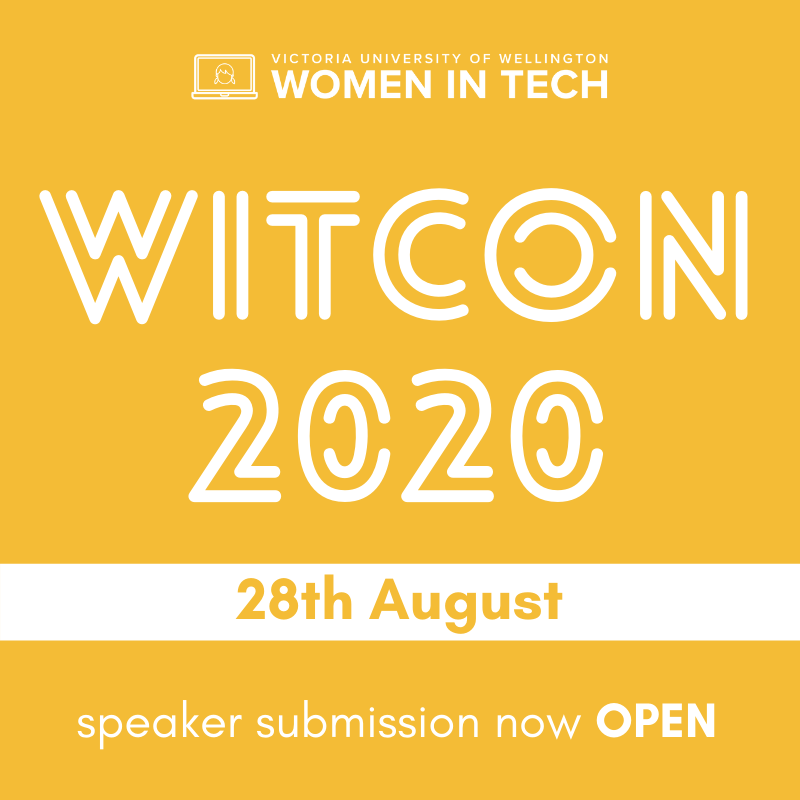
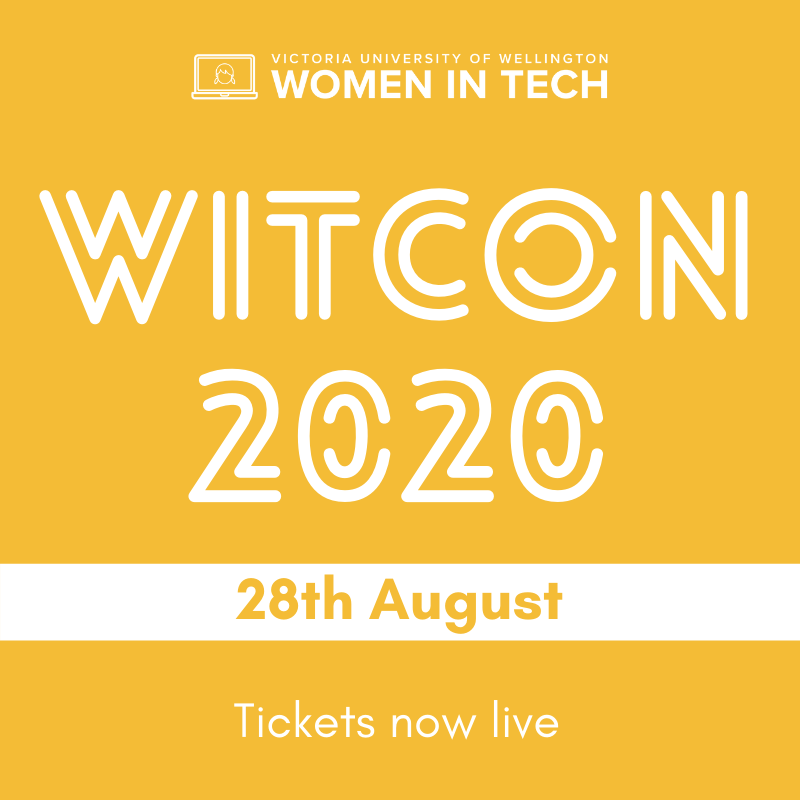
Changes as per 18 July

Changed region(s): [[0.0938, 0.875, 0.9062, 0.9375]]

diff --git a/src/scenes/witcon/witcon-main/en-NZ.js b/src/scenes/witcon/witcon-main/en-NZ.js
@@ -54,7 +54,8 @@ export default {
 
   //Speakers paragraph
   SPEAKERS: "Speakers",
-  WE_INVITE_TALKS: "We invite talks from any student or industry member with a passion for science, engineering, technology, design, and more. We want to fit as many voices as possible into this one-day conference, so we ask that full papers are approximately 15 minutes (and no longer than 20 minutes) to allow for a bit of question time at the end of each presentation. These abstracts can include research insights and case studies, and should cover any of the following themes:",
+  WE_INVITE_TALKS: "Speaker submissions have closed and we're now announcing all our speakers one by one. Keep and eye out on all our socials to see the amazing people who will speak at WITCon20. All talks will be on one of the following six themes:",
+  //WE_INVITE_TALKS: "We invite talks from any student or industry member with a passion for science, engineering, technology, design, and more. We want to fit as many voices as possible into this one-day conference, so we ask that full papers are approximately 15 minutes (and no longer than 20 minutes) to allow for a bit of question time at the end of each presentation. These abstracts can include research insights and case studies, and should cover any of the following themes:",
   // SIX_TALKS: "Talks at WITcon19 have been submitted based on the following themes:",
   THEME_1: "Theme 1:",
   DIVERSITY_IN:
@@ -78,7 +79,12 @@ export default {
    SPEAKER_DATES: "30th June 11:59pm NZT",
    WE_WANT_TO_HEAR: ". We want to hear from anyone and everyone!",
    SPEAKER_SUBMIT_LINK: "https://forms.gle/WuBSm6FREGzmE5j5A",
-  
+
+  AttendWitcon_Title: "Attend WITCon20",
+  AttendWitcon_Body: "Don't miss out on WITCon20 and the opportunity to listen to some amazing ideas, and experiences. Tickets are now live and start from ONLY $12. Tickets include entry to the event, a free swag bag, lunch, and networking opportunities that could help you land a new job or employee.",
+  AttendWitcon_Link: "witcon20.lilregie.com",
+  AttendWitcon_Ticket: "Get a Ticket",
+
   //Sponsor paragraph
   SPONSORSHIP: "Sponsorship",
   // SPONSORS_THANKYOU: "WITcon could not happen without support from local companies. Thank you to our incredible sponsors.",

diff --git a/src/scenes/upcoming-events/index.js b/src/scenes/upcoming-events/index.js
@@ -35,6 +35,7 @@ import Gamesnight2020 from "../../images/upcoming-events/6.png";
 import STEMball2020 from "../../images/upcoming-events/7.png";
 import Atlassian2020 from "../../images/upcoming-events/8.png";
 import DataScience2020 from "../../images/upcoming-events/9.png";
+import LockPicking2020 from "../../images/upcoming-events/10.png";
 import MetaTags from 'react-meta-tags';
 
 class UpcomingEvents extends Component {
@@ -50,15 +51,12 @@ class UpcomingEvents extends Component {
             <h2>{strings.CLICK_EVENTS}</h2>
 
             <div className="eventgrid">
-
               <div className="eventgrid-tile">
-                <a href="https://tdfg.lilregie.com/">
-                  <img src={TechdayforGirls2020} alt="TechdayforGirls2020-poster" className="eventgrid-tile-img" />
+                <a href="https://security-lockpicking-workshop-with-aura-security.lilregie.com/">
+                  <img src={LockPicking2020} alt="LockPicking2020-poster" className="eventgrid-tile-img" />
                 </a>
               </div>
-              <div className="eventgrid-tile">
-                <img src={Hackathon2020} alt="Hackathon2020-poster" className="eventgrid-tile-img" />
-              </div>
+
               <div className="eventgrid-tile">
                 <a href="https://www.facebook.com/events/2574452326144463/">
                 <img src={WITCon2020} alt="WITCon2020-poster" className="eventgrid-tile-img" />
@@ -77,6 +75,14 @@ class UpcomingEvents extends Component {
 
               <div className={cn("eventgrid-tile", "eventgrid-tile-title")}>
                 <h2>{strings.PAST}</h2>
+              </div>
+              <div className="eventgrid-tile">
+                <a href="https://tdfg.lilregie.com/">
+                  <img src={TechdayforGirls2020} alt="TechdayforGirls2020-poster" className="eventgrid-tile-img" />
+                </a>
+              </div>
+              <div className="eventgrid-tile">
+                <img src={Hackathon2020} alt="Hackathon2020-poster" className="eventgrid-tile-img" />
               </div>
               <div className="eventgrid-tile">
                 <a href="https://www.facebook.com/events/857679701385649/">

diff --git a/src/scenes/witcon/witcon-main/index.js b/src/scenes/witcon/witcon-main/index.js
@@ -25,7 +25,10 @@ class Witcon extends Component {
         <div className="Witcon__landing">
           <div className="Witcon__landing-main">
             { <div className="Witcon__banner">
-              <img src={banner} alt="silver-sponsor" className="medal-img" />
+             <a href={"witcon20.lilregie.com"}>
+               <img src={banner} alt="silver-sponsor" className="medal-img" />
+             </a>
+
             </div> }
 
             <div className="Witcon__landing-main-paragraph">
@@ -107,6 +110,11 @@ class Witcon extends Component {
             </table>
           </div>
         </div> */}
+        {  <div className="Witcon__speakers-submit">
+            <h3>{strings.AttendWitcon_Title}</h3>
+            <p>AttendWitcon_Body</p>
+            <LighterBlockLink link={strings.AttendWitcon_Link} label={strings.AttendWitcon_Ticket}/>
+          </div> }
         <div id="speakers" className="Witcon__speakers">
           <div className="Witcon__speakers-top">
             <h1>{strings.SPEAKERS}</h1>
@@ -144,11 +152,11 @@ class Witcon extends Component {
               </div>
             </div>
           </div>
-          { <div className="Witcon__speakers-submit">
+         {  /*<div className="Witcon__speakers-submit">
             <h3>{strings.SPEAKER_SUBMISSIONS_TITLE}</h3>
             <p>{strings.SPEAKER_SUBMISSIONS_ARE_OPEN}<b>{strings.SPEAKER_DATES}</b>{strings.WE_WANT_TO_HEAR}</p>
             <LighterBlockLink link={strings.SPEAKER_SUBMIT_LINK} label={strings.SUBMIT_A_TALK}/>
-          </div> }
+          </div> */}
         </div>
 
         <div id="sponsors" className="Witcon__sponsors">
